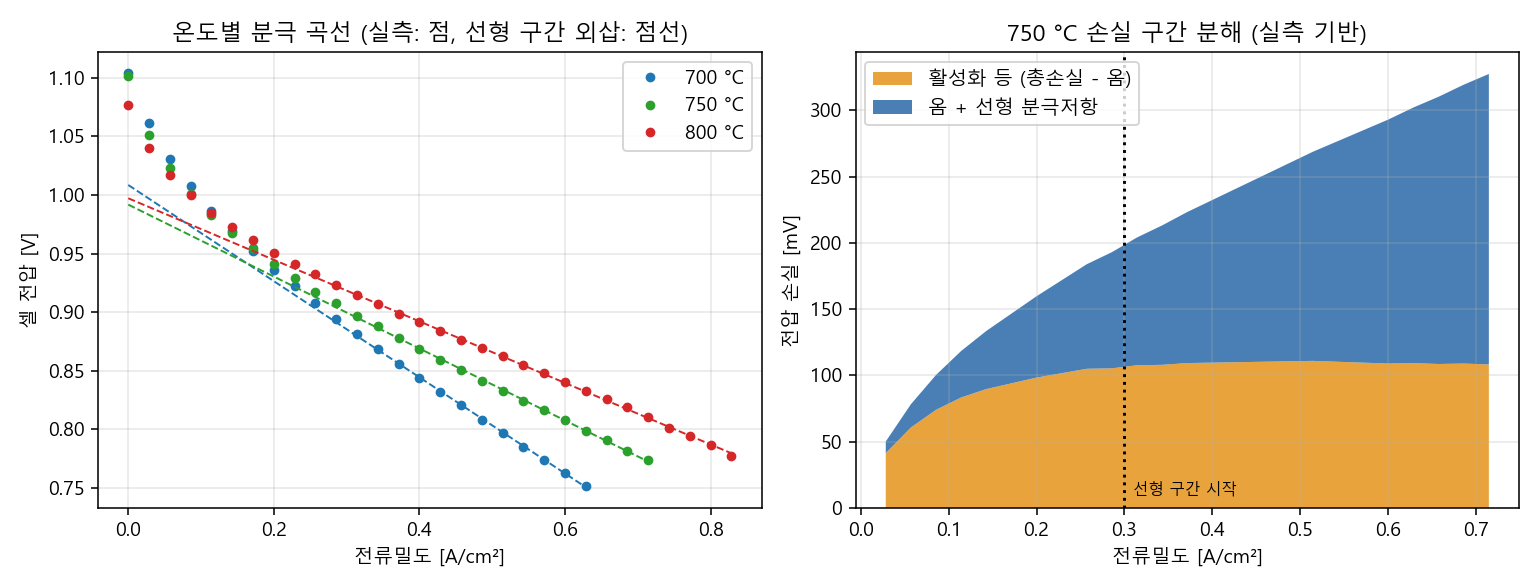
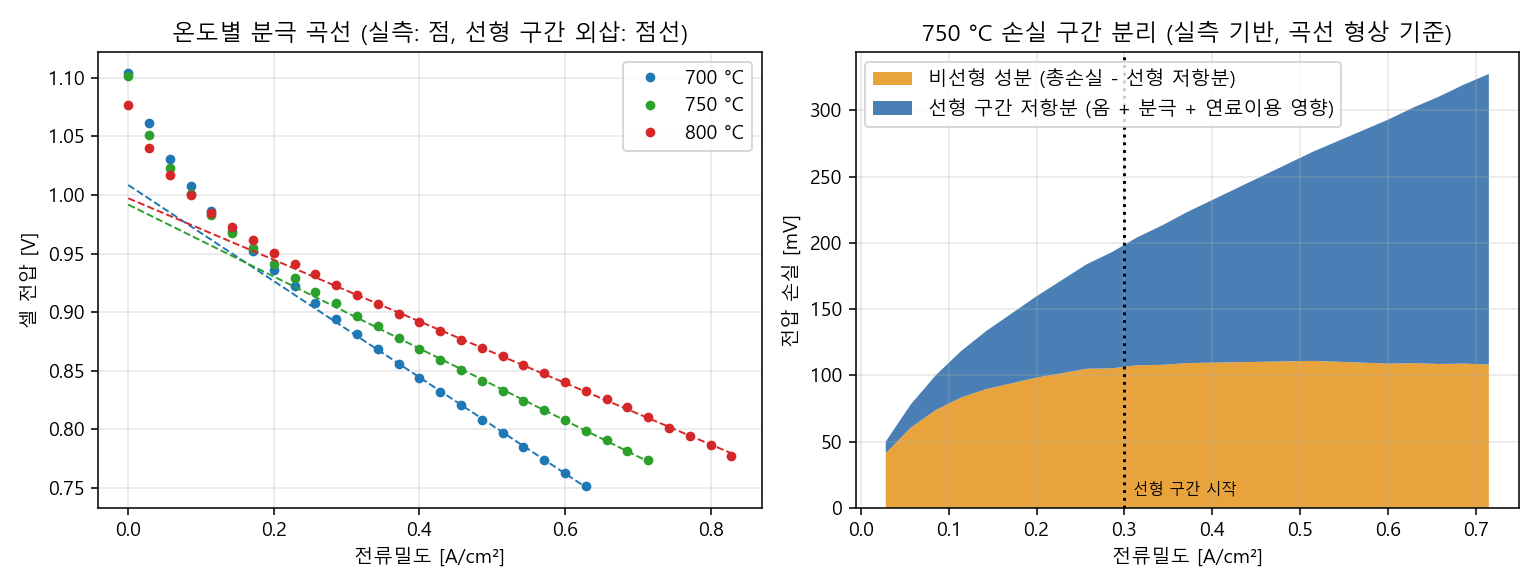
Address review: relabel R_lin, add H2/J_LIN sensitivity, rig stats, fix overclaims

Changed region(s): [[0.561, 0.0306, 0.9351, 0.2449]]

diff --git a/src/sensitivity.py b/src/sensitivity.py
@@ -1,0 +1,59 @@
+"""분극곡선 해석의 민감도 검증.
+(1) 750 °C에서 H2 농도만 바꿨을 때 R_lin이 어떻게 변하는가 -> R_lin을 접촉 저항 지표로 쓸 수 있는가
+(2) 선형 구간 시작점 J_LIN을 바꾸면 R_lin과 고전류 끝점 이탈이 얼마나 움직이는가
+"""
+import os, sys
+sys.path.insert(0, os.path.dirname(__file__))
+import numpy as np, pandas as pd, openpyxl
+import matplotlib
+matplotlib.use("Agg")
+import matplotlib.pyplot as plt
+from load_zenodo import SRC, load
+
+plt.rcParams["font.family"] = "Malgun Gothic"; plt.rcParams["axes.unicode_minus"] = False
+OUT = os.path.join(os.path.dirname(__file__), "..", "out")
+
+def sheet(name):
+    wb = openpyxl.load_workbook(SRC, data_only=True, read_only=True)
+    rows = []
+    for i, r in enumerate(wb[name].iter_rows(values_only=True)):
+        if i < 8 or r[0] is None or r[3] is None: continue
+        rows.append((float(r[0]), float(r[3])))
+    return pd.DataFrame(rows, columns=["j", "V"])
+
+def lin(df, jmin):
+    m = df.j >= jmin
+    if m.sum() < 4: return np.nan, np.nan, np.nan
+    s, v0 = np.polyfit(df.j[m], df.V[m], 1)
+    res = (df.V[m] - (v0 + s * df.j[m])) * 1000
+    return -s, res.iloc[-3:].mean(), np.sqrt((res ** 2).mean())
+
+# (1) H2 농도 의존성 (750 °C)
+names = {10: "BC_SP_02_IV_H2_10%_750C", 25: "BC_SP_02_IV_H2_25%_750C", 50: "BC_SP_02_IV_H2_std_750C",
+         75: "BC_SP_02_IV_H2_75%_750C", 90: "BC_SP_02_IV_H2_90%_750C"}
+rows = []
+fig, ax = plt.subplots(1, 2, figsize=(11, 4.2))
+for h2, nm in names.items():
+    df = sheet(nm)
+    jmin = 0.3 if df.j.max() > 0.45 else 0.5 * df.j.max()
+    r, top, rm = lin(df, jmin)
+    rows.append(dict(H2_pct=h2, n_points=len(df), j_max=round(df.j.max(), 3), OCV=df.V.iloc[0], j_lin_start=round(jmin, 3),
+                     R_lin=r, top_dev_mV=top, lin_rmse_mV=rm))
+    ax[0].plot(df.j, df.V, "o-", ms=3, label=f"H2 {h2} %")
+ax[0].set_xlabel("전류밀도 [A/cm²]"); ax[0].set_ylabel("셀 전압 [V]"); ax[0].legend(); ax[0].grid(alpha=.3)
+ax[0].set_title("750 °C, H2 농도별 분극 곡선 (실측)")
+h = pd.DataFrame(rows); h.round(4).to_csv(f"{OUT}/h2_dependence.csv", index=False)
+ax[1].semilogy(h.H2_pct, h.R_lin, "o-"); ax[1].set_xlabel("H2 농도 [%]"); ax[1].set_ylabel("R_lin [Ω·cm²]")
+ax[1].set_title("연료 조성만 바꿔도 R_lin이 크게 변한다"); ax[1].grid(alpha=.3, which="both")
+fig.tight_layout(); fig.savefig(f"{OUT}/h2_dependence.png", dpi=140); plt.close(fig)
+print(h.round(3).to_string(index=False))
+
+# (2) J_LIN 민감도 (H2 50 %, 3개 온도)
+d = load(); rows = []
+for T, g in d.groupby("T_C"):
+    g2 = g.rename(columns={"j_A_cm2": "j"})[["j", "V"]]
+    for jmin in (0.15, 0.2, 0.3, 0.4, 0.5):
+        r, top, rm = lin(g2.reset_index(drop=True), jmin)
+        rows.append(dict(T_C=T, J_LIN=jmin, R_lin=r, top_dev_mV=top, lin_rmse_mV=rm))
+s = pd.DataFrame(rows); s.round(4).to_csv(f"{OUT}/jlin_sensitivity.csv", index=False)
+print(s.round(3).to_string(index=False))

diff --git a/src/analyze_real.py b/src/analyze_real.py
@@ -3,7 +3,7 @@
 방법(모델 가정을 최소화한 구간 분해):
  1) 선형 구간: j >= J_LIN 에서 V = V0 - R_lin*j 로 직선 피팅. R_lin은 옴 저항 + 선형 분극저항의 합산 면적저항이다.
     분극 곡선만으로는 옴 저항만 따로 뽑을 수 없다. (분리하려면 EIS가 필요하다.)
- 2) 활성화 구간: 직선 아래로 급격히 벗어나는 저전류 구간. 총 손실에서 옴 성분(R_lin*j)을 뺀 값으로 정의한다.
+ 2) 비선형 구간: 직선 아래로 급격히 벗어나는 저전류 구간. 총 손실에서 선형 저항분(R_lin*j)을 뺀 값으로 정의한다. 활성화 손실만이 아니라 OCV 편차와 연료이용에 따른 손실도 포함한다.
  3) 농도 구간: 고전류 끝점 3개가 직선보다 아래로 얼마나 벗어나는지(mV)로 판정한다. 임계값은 가정값이다.
 """
 import os, sys
@@ -60,11 +60,11 @@ if __name__ == "__main__":
     gg = g[g.j_A_cm2 > 0]
     total = (p["OCV"] - gg.V.values) * 1000
     ohm = p["R_lin"] * gg.j_A_cm2.values * 1000
-    ax[1].stackplot(gg.j_A_cm2.values, total - ohm, ohm, labels=["활성화 등 (총손실 - 옴)", "옴 + 선형 분극저항"],
+    ax[1].stackplot(gg.j_A_cm2.values, total - ohm, ohm, labels=["비선형 성분 (총손실 - 선형 저항분)", "선형 구간 저항분 (옴 + 분극 + 연료이용 영향)"],
                     colors=["#e8a33d", "#4a7fb5"])
     ax[1].axvline(J_LIN, color="k", ls=":"); ax[1].text(J_LIN + .01, 10, "선형 구간 시작", fontsize=8)
     ax[1].set_xlabel("전류밀도 [A/cm²]"); ax[1].set_ylabel("전압 손실 [mV]")
-    ax[1].set_title("750 °C 손실 구간 분해 (실측 기반)"); ax[1].legend(loc="upper left"); ax[1].grid(alpha=.3)
+    ax[1].set_title("750 °C 손실 구간 분리 (실측 기반, 곡선 형상 기준)"); ax[1].legend(loc="upper left"); ax[1].grid(alpha=.3)
     fig.tight_layout(); fig.savefig(f"{OUT}/real_polarization_loss.png", dpi=140); plt.close(fig)
 
     pf = pd.DataFrame(rows)

diff --git a/src/decision_table.py b/src/decision_table.py
@@ -27,10 +27,10 @@ rows = [
   "기준 -20 mV 이내", "기준 -20 ~ -40 mV: 재측정", "-40 mV 미만: 가스 누설·시일 불량 의심"],
  ["분극곡선", "0.3 A/cm² 전압", T3(lambda r: f"{r['v03']:.3f}") + " V",
   "기준 ±3 %", "±3 ~ 6 %: 재측정", "-6 % 미만: 이상 의심 (아래 R_lin, 형상 확인)"],
- ["분극곡선", "선형 구간 면적저항 R_lin", T3(lambda r: f"{r['r']:.2f}") + " Ω·cm²",
-  "기준 x1.15 이하", "x1.15 ~ 1.30: 재측정", "x1.30 초과: 접촉 저항·전극 열화 의심"],
+ ["분극곡선", "선형 구간 면적저항 R_lin (옴+분극+연료이용 합산)", T3(lambda r: f"{r['r']:.2f}") + " Ω·cm²",
+  "기준 x1.15 이하", "x1.15 ~ 1.30: 재측정", "x1.30 초과: 저항 증가. 연료 조성·이용률 먼저 확인 후 접촉·전극 열화 의심"],
  ["분극곡선", "고전류 끝점 직선 이탈", "0 ~ -1 mV (실측)",
-  "-5 mV 이내", "-5 ~ -10 mV: 유량 확인", "-10 mV 미만: 농도 손실, 연료·공기 부족 의심"],
+  "-5 mV 이내", "-5 ~ -10 mV: 유량 확인", "-10 mV 미만: 농도 손실 의심 (검출 민감도 한계 있음)"],
  ["열화", "기준 열화율 (초기 500 h)", f"{deg0:.2f} %/kh (시뮬레이션)",
   "1.5 %/kh 이하", "1.5 ~ 3 %/kh: 관찰 연장", "3 %/kh 초과: 열화 이상"],
  ["열화", "급강하 (48 h 내 전압 하락)", "-12 mV (시뮬레이션 주입)",

diff --git a/src/rig_stats.py b/src/rig_stats.py
@@ -1,0 +1,21 @@
+"""호기 효과 통계 (시뮬레이션 스택 60개). 호기 R3의 -12 K 편차는 시뮬레이터가 주입한 값이므로,
+이 검정은 "주입한 효과를 통계적으로 구분할 수 있는가"를 보는 것이지 실제 호기 분석이 아니다."""
+import os, sys
+sys.path.insert(0, os.path.dirname(__file__))
+import numpy as np, pandas as pd
+OUT = os.path.join(os.path.dirname(__file__), "..", "out")
+f = pd.read_csv(f"{OUT}/stack_summary.csv")
+ok = f[f.fault == "none"]                       # 결함 없는 스택만 비교해 교란을 줄인다
+rng = np.random.default_rng(0)
+rows = []
+for a, b in (("R3", "R1"), ("R3", "R2"), ("R1", "R2")):
+    x, y = ok[ok.rig == a].mean_V.values, ok[ok.rig == b].mean_V.values
+    diff = x.mean() - y.mean()
+    pool = np.concatenate([x, y]); n = len(x); cnt = 0
+    for _ in range(5000):
+        rng.shuffle(pool)
+        if abs(pool[:n].mean() - pool[n:].mean()) >= abs(diff): cnt += 1
+    se = np.sqrt(x.var(ddof=1) / len(x) + y.var(ddof=1) / len(y))
+    rows.append(dict(pair=f"{a}-{b}", n=f"{len(x)}/{len(y)}", diff_mV=diff * 1000,
+                     ci95_lo_mV=(diff - 1.96 * se) * 1000, ci95_hi_mV=(diff + 1.96 * se) * 1000, perm_p=(cnt + 1) / 5001))
+r = pd.DataFrame(rows).round(3); r.to_csv(f"{OUT}/rig_stats.csv", index=False); print(r.to_string(index=False))

diff --git a/matlab/plot_real.m b/matlab/plot_real.m
@@ -31,9 +31,9 @@ r = P(P.T_C == 750, :);
 total = (r.OCV - g.V) * 1000;
 ohm   = r.R_lin * g.j_A_cm2 * 1000;
 area([g.j_A_cm2], [total - ohm, ohm]);
-legend({'활성화 등 (총손실 - 옴)', '옴 + 선형 분극저항'}, 'Location', 'northwest');
+legend({'비선형 성분 (총손실 - 선형 저항분)', '선형 구간 저항분 (옴+분극+연료이용 영향)'}, 'Location', 'northwest');
 xlabel('전류밀도 [A/cm^2]'); ylabel('전압 손실 [mV]'); grid on;
-title('750 °C 손실 구간 분해 (실측 기반)');
+title('750 °C 손실 구간 분리 (실측 기반, 곡선 형상 기준)');
 exportgraphics(f2, fullfile(out, 'm_real_loss_split.png'), 'Resolution', 130);
 
 % 3) 시뮬레이션 장기 운전 전압과 탐지된 이벤트

diff --git a/README.md b/README.md
@@ -23,6 +23,8 @@ python -I src/run_all.py
 python -I src/seed_sweep.py
 python -I src/analyze_real.py
 python -I src/degradation.py
+python -I src/sensitivity.py
+python -I src/rig_stats.py
 python -I src/decision_table.py
 ```
 필요 패키지: numpy, pandas, matplotlib, openpyxl. 결과는 `out/`에 저장됩니다.
@@ -52,8 +54,8 @@ python -I src/decision_table.py
 |---|---|---|---|---|---|
 | 분극곡선 | OCV (j=0) | 1.104 / 1.101 / 1.077 V | 기준 -20 mV 이내 | 기준 -20 ~ -40 mV: 재측정 | -40 mV 미만: 가스 누설·시일 불량 의심 |
 | 분극곡선 | 0.3 A/cm² 전압 | 0.888 / 0.903 / 0.919 V | 기준 ±3 % | ±3 ~ 6 %: 재측정 | -6 % 미만: 이상 의심 (아래 R_lin, 형상 확인) |
-| 분극곡선 | 선형 구간 면적저항 R_lin | 0.41 / 0.31 / 0.26 Ω·cm² | 기준 x1.15 이하 | x1.15 ~ 1.30: 재측정 | x1.30 초과: 접촉 저항·전극 열화 의심 |
-| 분극곡선 | 고전류 끝점 직선 이탈 | 0 ~ -1 mV (실측) | -5 mV 이내 | -5 ~ -10 mV: 유량 확인 | -10 mV 미만: 농도 손실, 연료·공기 부족 의심 |
+| 분극곡선 | 선형 구간 면적저항 R_lin (옴+분극+연료이용 합산) | 0.41 / 0.31 / 0.26 Ω·cm² | 기준 x1.15 이하 | x1.15 ~ 1.30: 재측정 | x1.30 초과: 저항 증가. 연료 조성·이용률 먼저 확인 후 접촉·전극 열화 의심 |
+| 분극곡선 | 고전류 끝점 직선 이탈 | 0 ~ -1 mV (실측) | -5 mV 이내 | -5 ~ -10 mV: 유량 확인 | -10 mV 미만: 농도 손실 의심 (검출 민감도 한계 있음) |
 | 열화 | 기준 열화율 (초기 500 h) | 0.50 %/kh (시뮬레이션) | 1.5 %/kh 이하 | 1.5 ~ 3 %/kh: 관찰 연장 | 3 %/kh 초과: 열화 이상 |
 | 열화 | 급강하 (48 h 내 전압 하락) | -12 mV (시뮬레이션 주입) | -6 mV 이내 | -6 ~ -12 mV: 로그·설비 점검 | -12 mV 초과: 운전 중단 후 원인 분석 |
 | 열화 | 롤링 열화율 가속 | 3.5 %/kh (시뮬레이션 주입) | 기준의 3배 미만 | 기준 3배 이상, 1.5 %/kh 미만 | 기준 3배 이상 & 1.5 %/kh 이상: 가속 열화 |
@@ -69,13 +71,11 @@ python -I src/decision_table.py
 | 항목 | 값 |
 |---|---|
 | 합·부 판정 | PASS 48, FAIL 12 |
-| 주입 결함 12건 | 12건 모두 원인 분류 일치 |
-| 정상 스택 오경보 | 48개 중 0건 |
+| 원인 분류 | 시드 20개 정확도 평균 0.970, 최소 0.867 (시드 42는 12/12, 오경보 0건) |
 | 누설 셀 번호 | 7건 중 7건 일치 |
-| 호기 R3 평균 전압 | R1·R2보다 약 9 mV 낮음 (가정한 온도 편차가 드러남) |
-| 시드 20개 분류 정확도 | 평균 0.970, 최소 0.867 |
+| 호기 R3 평균 전압 | 결함 없는 스택 기준 R1·R2보다 약 11.4 mV 낮음 (95% 구간 -12.2 ~ -10.5 mV, 순열검정 p<0.001) |
 
-호기 효과는 스택 결함이 아니라 설비 문제일 수 있으므로, 같은 호기 스택이 함께 낮으면 설비부터 점검한다는 판단 근거로 쓰도록 설계했습니다.
+분류 규칙을 시뮬레이터 구조를 알고 만들었고 호기 R3의 -12 K 편차도 시뮬레이터가 넣은 값이라, 위 수치는 "넣은 것을 되찾는지" 확인하는 용도입니다. 실제 설비 분석 결과가 아닙니다.
 
 ## 공개 실측 데이터 분석
 출처: Del Zotto 외, Zenodo 5763484 (https://zenodo.org/records/5763484, CC BY 4.0). 단전지 분극 곡선을 700, 750, 800 °C에서 측정한 자료이며,
@@ -83,22 +83,25 @@ python -I src/decision_table.py
 
 | 단계 | 파일 | 내용 |
 |---|---|---|
-| 1. 분극곡선과 손실 구간 | `src/analyze_real.py` | 온도별 곡선 비교, 선형 구간 직선 피팅, 총 손실에서 옴 성분을 뺀 활성화 구간 분리, 고전류 끝점 이탈로 농도 손실 판정 |
-| 2. 열화 분석 | `src/degradation.py` | 초기 500 h 기준 열화율, 급강하와 열화 가속 구간 탐지 |
-| 3. 판정 기준표 | `src/decision_table.py` | 합격, 재측정, 이상 의심 3단계 1장 표 (`out/decision_table.png`, `.md`, `.csv`) |
+| 1. 분극곡선 구간 분리 | `src/analyze_real.py` | 온도별 곡선 비교, 선형 구간 직선 피팅, 총 손실에서 선형 저항분을 뺀 비선형 성분 분리, 고전류 끝점 이탈 확인 |
+| 2. 민감도 검증 | `src/sensitivity.py` | H2 농도 변화와 선형 구간 시작점 변화에 따른 R_lin 변동 (`out/h2_dependence.*`, `out/jlin_sensitivity.csv`) |
+| 3. 열화 분석 | `src/degradation.py` | 초기 500 h 기준 열화율, 급강하와 열화 가속 구간 탐지 |
+| 4. 호기 효과 통계 | `src/rig_stats.py` | 시뮬레이션 스택의 호기 간 평균 차이, 신뢰구간, 순열검정 |
+| 5. 판정 기준표 | `src/decision_table.py` | 합격, 재측정, 이상 의심 3단계 1장 표 (`out/decision_table.png`, `.md`, `.csv`) |
 
 결과 요약
-- 실측 곡선의 선형 구간 직선 피팅 오차는 0.8~0.9 mV로 작고, 선형 구간 면적저항은 700 / 750 / 800 °C에서 0.41 / 0.31 / 0.26 Ω·cm²입니다.
-  온도 상승으로 저항이 줄어드는 정도로 겉보기 활성화 에너지를 구하면 약 39 kJ/mol이며, 점이 3개뿐이라 참고치입니다.
-- 측정 범위(최대 0.63~0.83 A/cm²)에서는 농도 손실로 볼 만한 곡률이 보이지 않았습니다. 활성화 성분은 약 0.3 A/cm²부터 포화합니다.
-- 옴 저항과 선형 구간 분극저항은 분극 곡선만으로 분리할 수 없어 합산 값(R_lin)으로 표시했습니다. 분리하려면 EIS가 필요합니다.
-- 열화 분석: 이 공개 자료에는 장시간 전압 원자료가 없어(분극 곡선만 포함) 시뮬레이션 2000 h 데이터로 검증했습니다.
-  주입한 기준 열화율 0.5 %/kh를 0.50 %/kh로, 1100 h의 12 mV 급강하를 11.7 mV로, 1500 h의 가속 열화를 1485 h에 찾았습니다.
-  이벤트를 알고 만든 데이터라 탐지 정확도는 낙관적입니다.
-- 판정 기준표의 기준값은 이 단전지의 실측 곡선에서, 허용 폭은 가정값에서 나왔습니다. 양산 스택 기준이 아닙니다.
+- 선형 구간 직선 피팅 오차는 0.8~0.9 mV이고, 선형 구간 면적저항 R_lin은 700 / 750 / 800 °C에서 0.41 / 0.31 / 0.26 Ω·cm²입니다. 점 수가 12~19개라 맞춤이 좋다는 것이 검증을 뜻하지는 않습니다.
+- R_lin은 옴 저항이 아닙니다. 옴 저항, 선형 구간의 분극저항, 연료 이용에 따른 전압 하강이 합쳐진 값입니다. 같은 750 °C에서 H2 농도만 바꿔도 R_lin이 90 % 0.26, 50 % 0.31, 25 % 0.68, 10 % 2.18 Ω·cm²로 달라집니다(`out/h2_dependence.png`). 접촉 저항이 같아도 연료 조건에 따라 크게 변하므로, 기준표에서는 저항 증가 시 연료 조건을 먼저 확인하도록 고쳤습니다. 옴 저항을 따로 구하려면 EIS가 필요합니다.
+- 선형 구간 시작점 J_LIN을 0.15~0.5 A/cm²로 바꾸면 700 °C의 R_lin이 0.433~0.395로 약 9 % 움직입니다(`out/jlin_sensitivity.csv`). 기준표의 허용 폭 15 %와 같은 크기이므로 구간 선택이 판정에 영향을 줄 수 있습니다.
+- 측정 범위(최대 0.63~0.83 A/cm²)의 H2 50 % 곡선에서는 농도 손실로 볼 만한 곡률이 보이지 않았습니다. 다만 이 검출 방법을 농도 손실이 있는 곡선으로 검증하지 못했고, H2 25 % 곡선의 끝점 이탈은 약 -2 mV로 -5 mV 기준에 걸리지 않았습니다. 농도 손실이 없다는 뜻인지 검출이 둔감하다는 뜻인지 구분하지 못합니다.
+- 열화 분석: 공개 자료에 장시간 전압 원자료가 없어 시뮬레이션 2000 h 데이터로 방법만 확인했습니다. 주입한 기준 열화율 0.5 %/kh를 0.50 %/kh로, 1100 h의 12 mV 급강하를 11.7 mV로 되찾았습니다. 가속 열화 탐지는 앞뒤 구간을 모두 쓰는 사후 분석이라, 이벤트(1500 h)보다 앞선 1485 h로 나옵니다. 실시간 중단 판단에는 쓸 수 없습니다.
+- 판정 기준표의 기준값은 이 단전지 곡선 한 개에서, 허용 폭은 가정값에서 나왔습니다. 계측 불확도와 반복 측정 산포는 반영하지 않았고 양산 스택 기준이 아닙니다.
 
 ## 한계
 - 분류 규칙을 시뮬레이터를 알고 만들었기 때문에 정확도는 낙관적입니다. 실측 데이터 성능을 뜻하지 않습니다.
 - 합·부 기준(SPEC)은 가정값이며 실제 양산 기준이 아닙니다.
 - 모델은 0차원이라 열·유동 분포, 스택 압축, 시일 거동을 다루지 않습니다.
 - 다음 단계: 실측 전압·전류·온도 로그에 같은 파이프라인을 적용하고, 임계값을 데이터로 보정합니다.
+- 호기 효과와 분류 규칙은 시뮬레이터가 주입한 값을 되찾는 확인이며, 실제 설비의 호기 분석이 아닙니다.
+- 단전지 한 개의 곡선 기준값을 스택 판정에 그대로 쓸 수 없습니다. 셀 수, 압축, 매니폴드 분배가 다릅니다.
+- 열화 탐지는 사후 분석이며, 초기 컨디셔닝 구간과 노이즈 수준(시뮬레이션 1.5 mV)에 민감합니다. 노이즈가 5 mV 수준이면 임계값 재조정이 필요하다는 외부 검토 지적이 있었고, 이 저장소에서는 아직 직접 재현하지 않았습니다.

diff --git a/out/decision_table.md b/out/decision_table.md
@@ -6,8 +6,8 @@
 |---|---|---|---|---|---|
 | 분극곡선 | OCV (j=0) | 1.104 / 1.101 / 1.077 V | 기준 -20 mV 이내 | 기준 -20 ~ -40 mV: 재측정 | -40 mV 미만: 가스 누설·시일 불량 의심 |
 | 분극곡선 | 0.3 A/cm² 전압 | 0.888 / 0.903 / 0.919 V | 기준 ±3 % | ±3 ~ 6 %: 재측정 | -6 % 미만: 이상 의심 (아래 R_lin, 형상 확인) |
-| 분극곡선 | 선형 구간 면적저항 R_lin | 0.41 / 0.31 / 0.26 Ω·cm² | 기준 x1.15 이하 | x1.15 ~ 1.30: 재측정 | x1.30 초과: 접촉 저항·전극 열화 의심 |
-| 분극곡선 | 고전류 끝점 직선 이탈 | 0 ~ -1 mV (실측) | -5 mV 이내 | -5 ~ -10 mV: 유량 확인 | -10 mV 미만: 농도 손실, 연료·공기 부족 의심 |
+| 분극곡선 | 선형 구간 면적저항 R_lin (옴+분극+연료이용 합산) | 0.41 / 0.31 / 0.26 Ω·cm² | 기준 x1.15 이하 | x1.15 ~ 1.30: 재측정 | x1.30 초과: 저항 증가. 연료 조성·이용률 먼저 확인 후 접촉·전극 열화 의심 |
+| 분극곡선 | 고전류 끝점 직선 이탈 | 0 ~ -1 mV (실측) | -5 mV 이내 | -5 ~ -10 mV: 유량 확인 | -10 mV 미만: 농도 손실 의심 (검출 민감도 한계 있음) |
 | 열화 | 기준 열화율 (초기 500 h) | 0.50 %/kh (시뮬레이션) | 1.5 %/kh 이하 | 1.5 ~ 3 %/kh: 관찰 연장 | 3 %/kh 초과: 열화 이상 |
 | 열화 | 급강하 (48 h 내 전압 하락) | -12 mV (시뮬레이션 주입) | -6 mV 이내 | -6 ~ -12 mV: 로그·설비 점검 | -12 mV 초과: 운전 중단 후 원인 분석 |
 | 열화 | 롤링 열화율 가속 | 3.5 %/kh (시뮬레이션 주입) | 기준의 3배 미만 | 기준 3배 이상, 1.5 %/kh 미만 | 기준 3배 이상 & 1.5 %/kh 이상: 가속 열화 |
